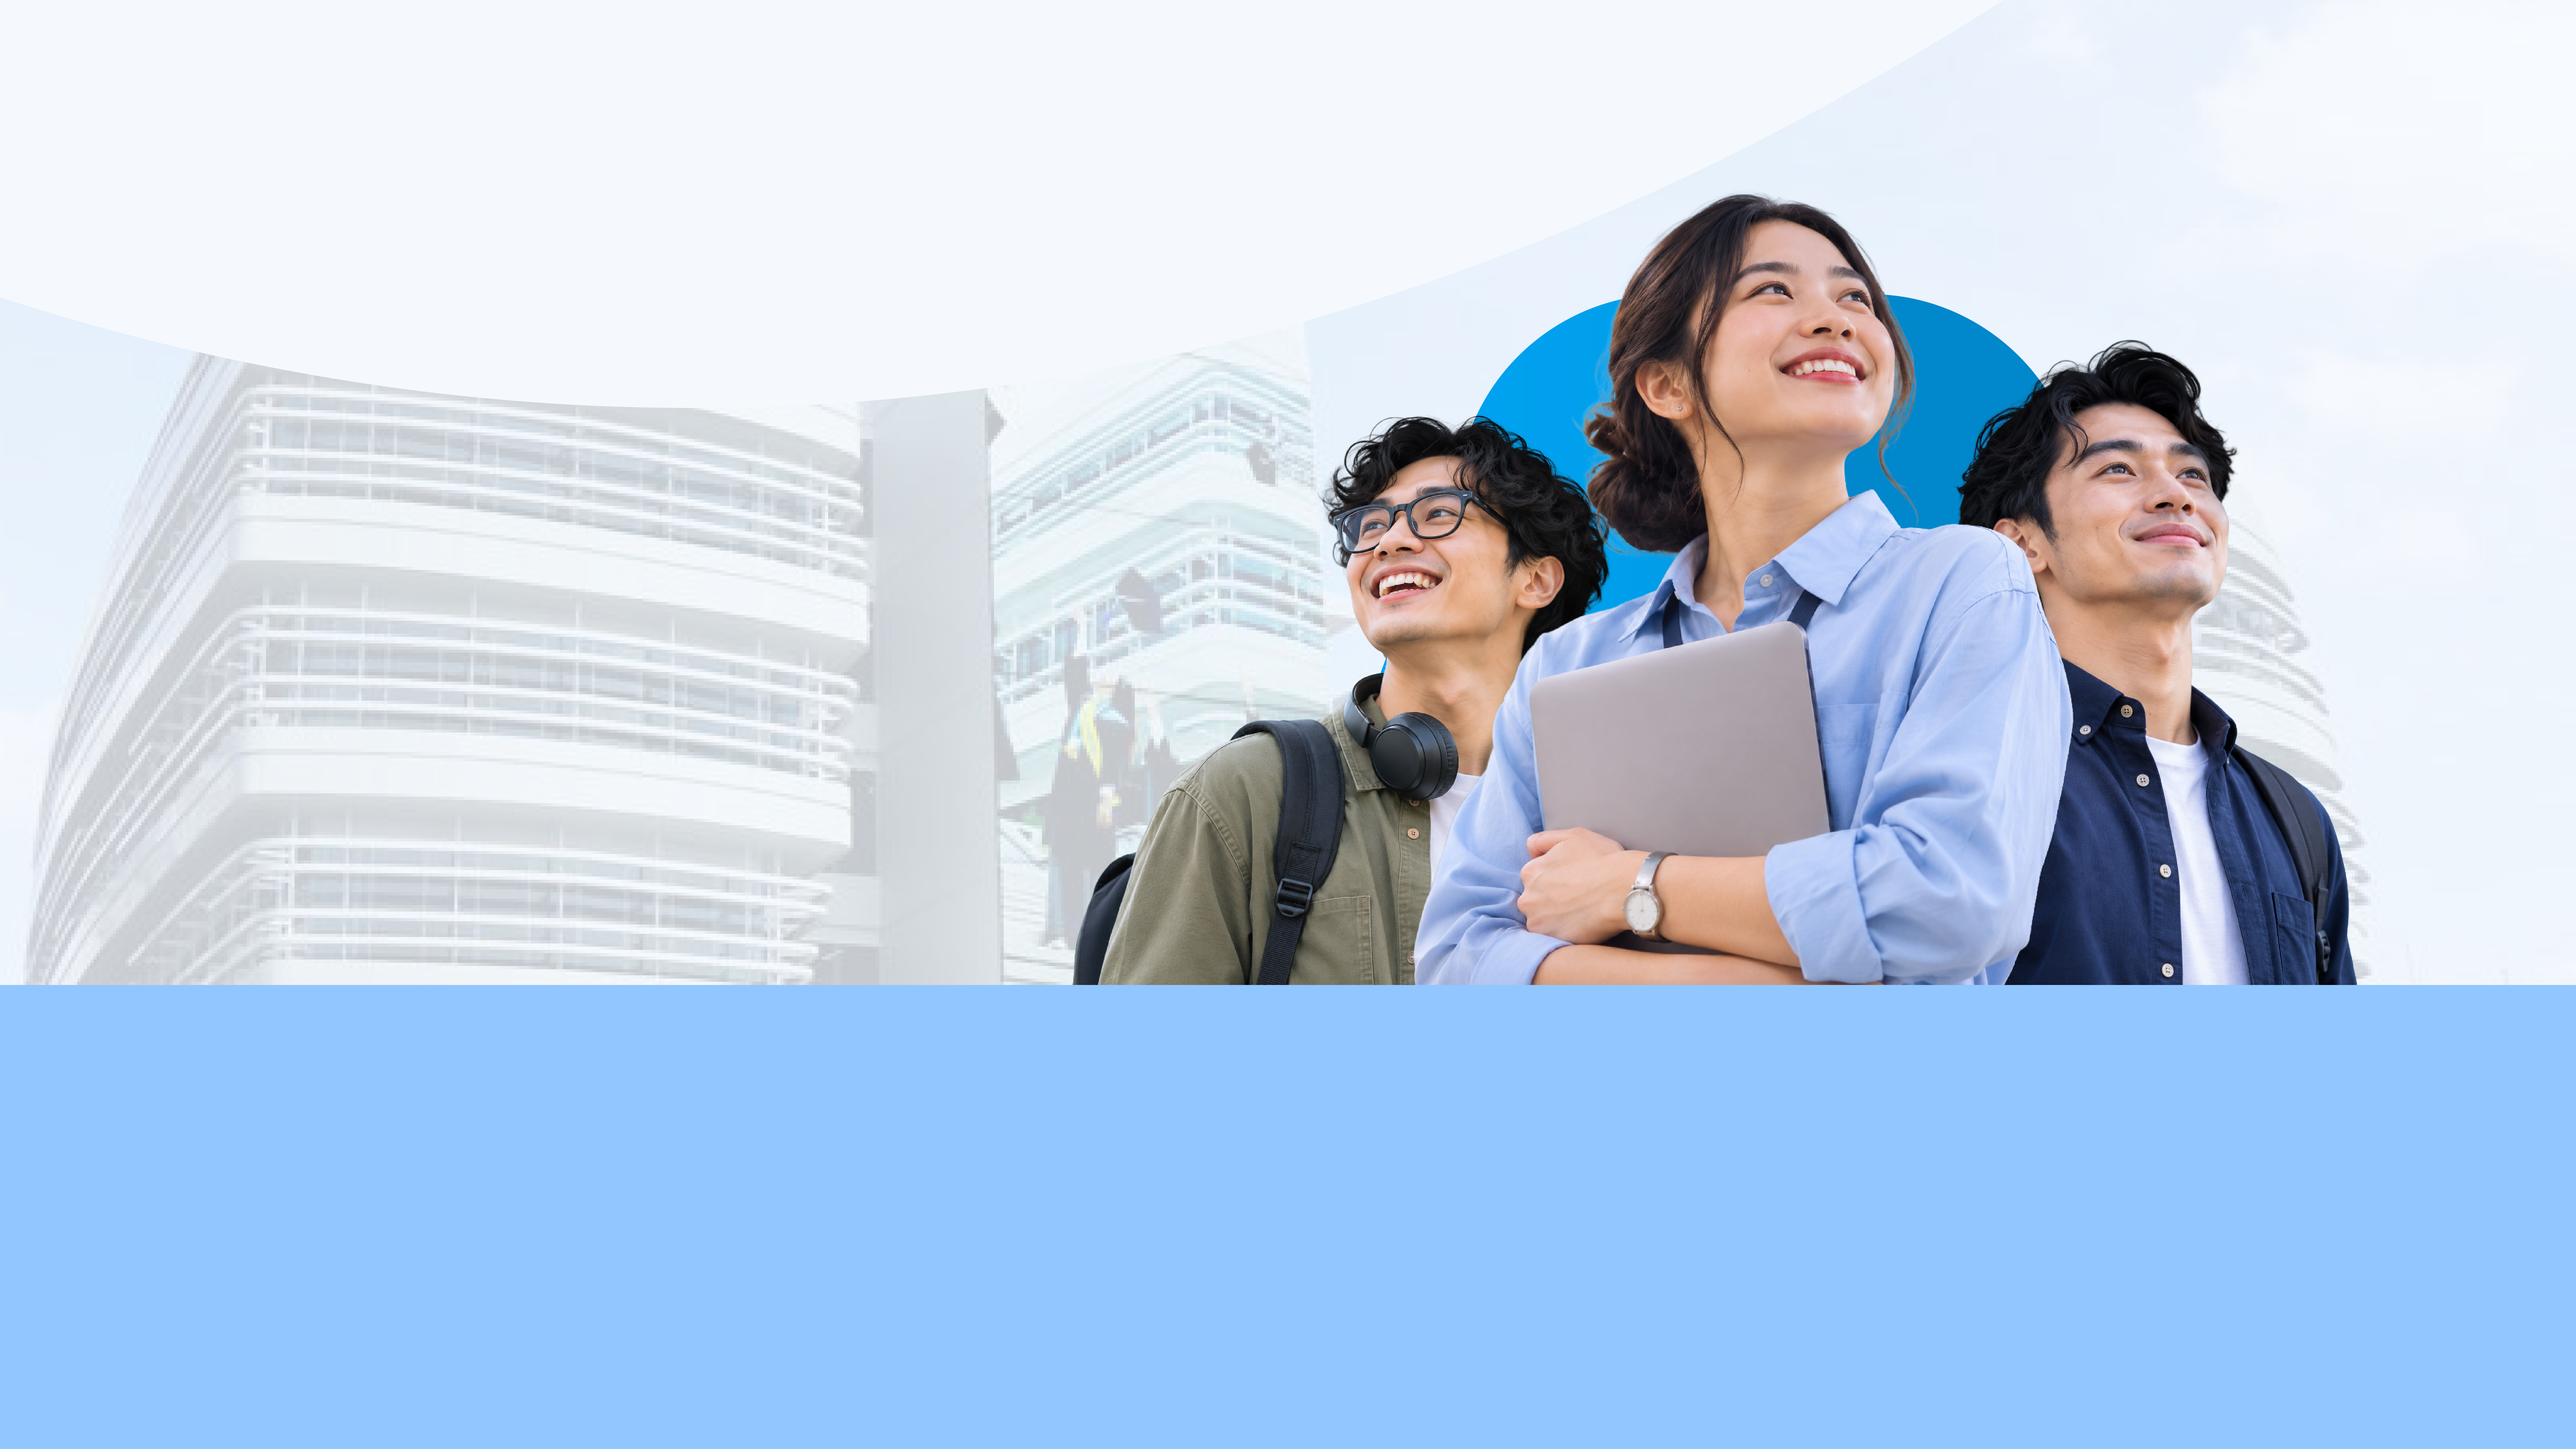
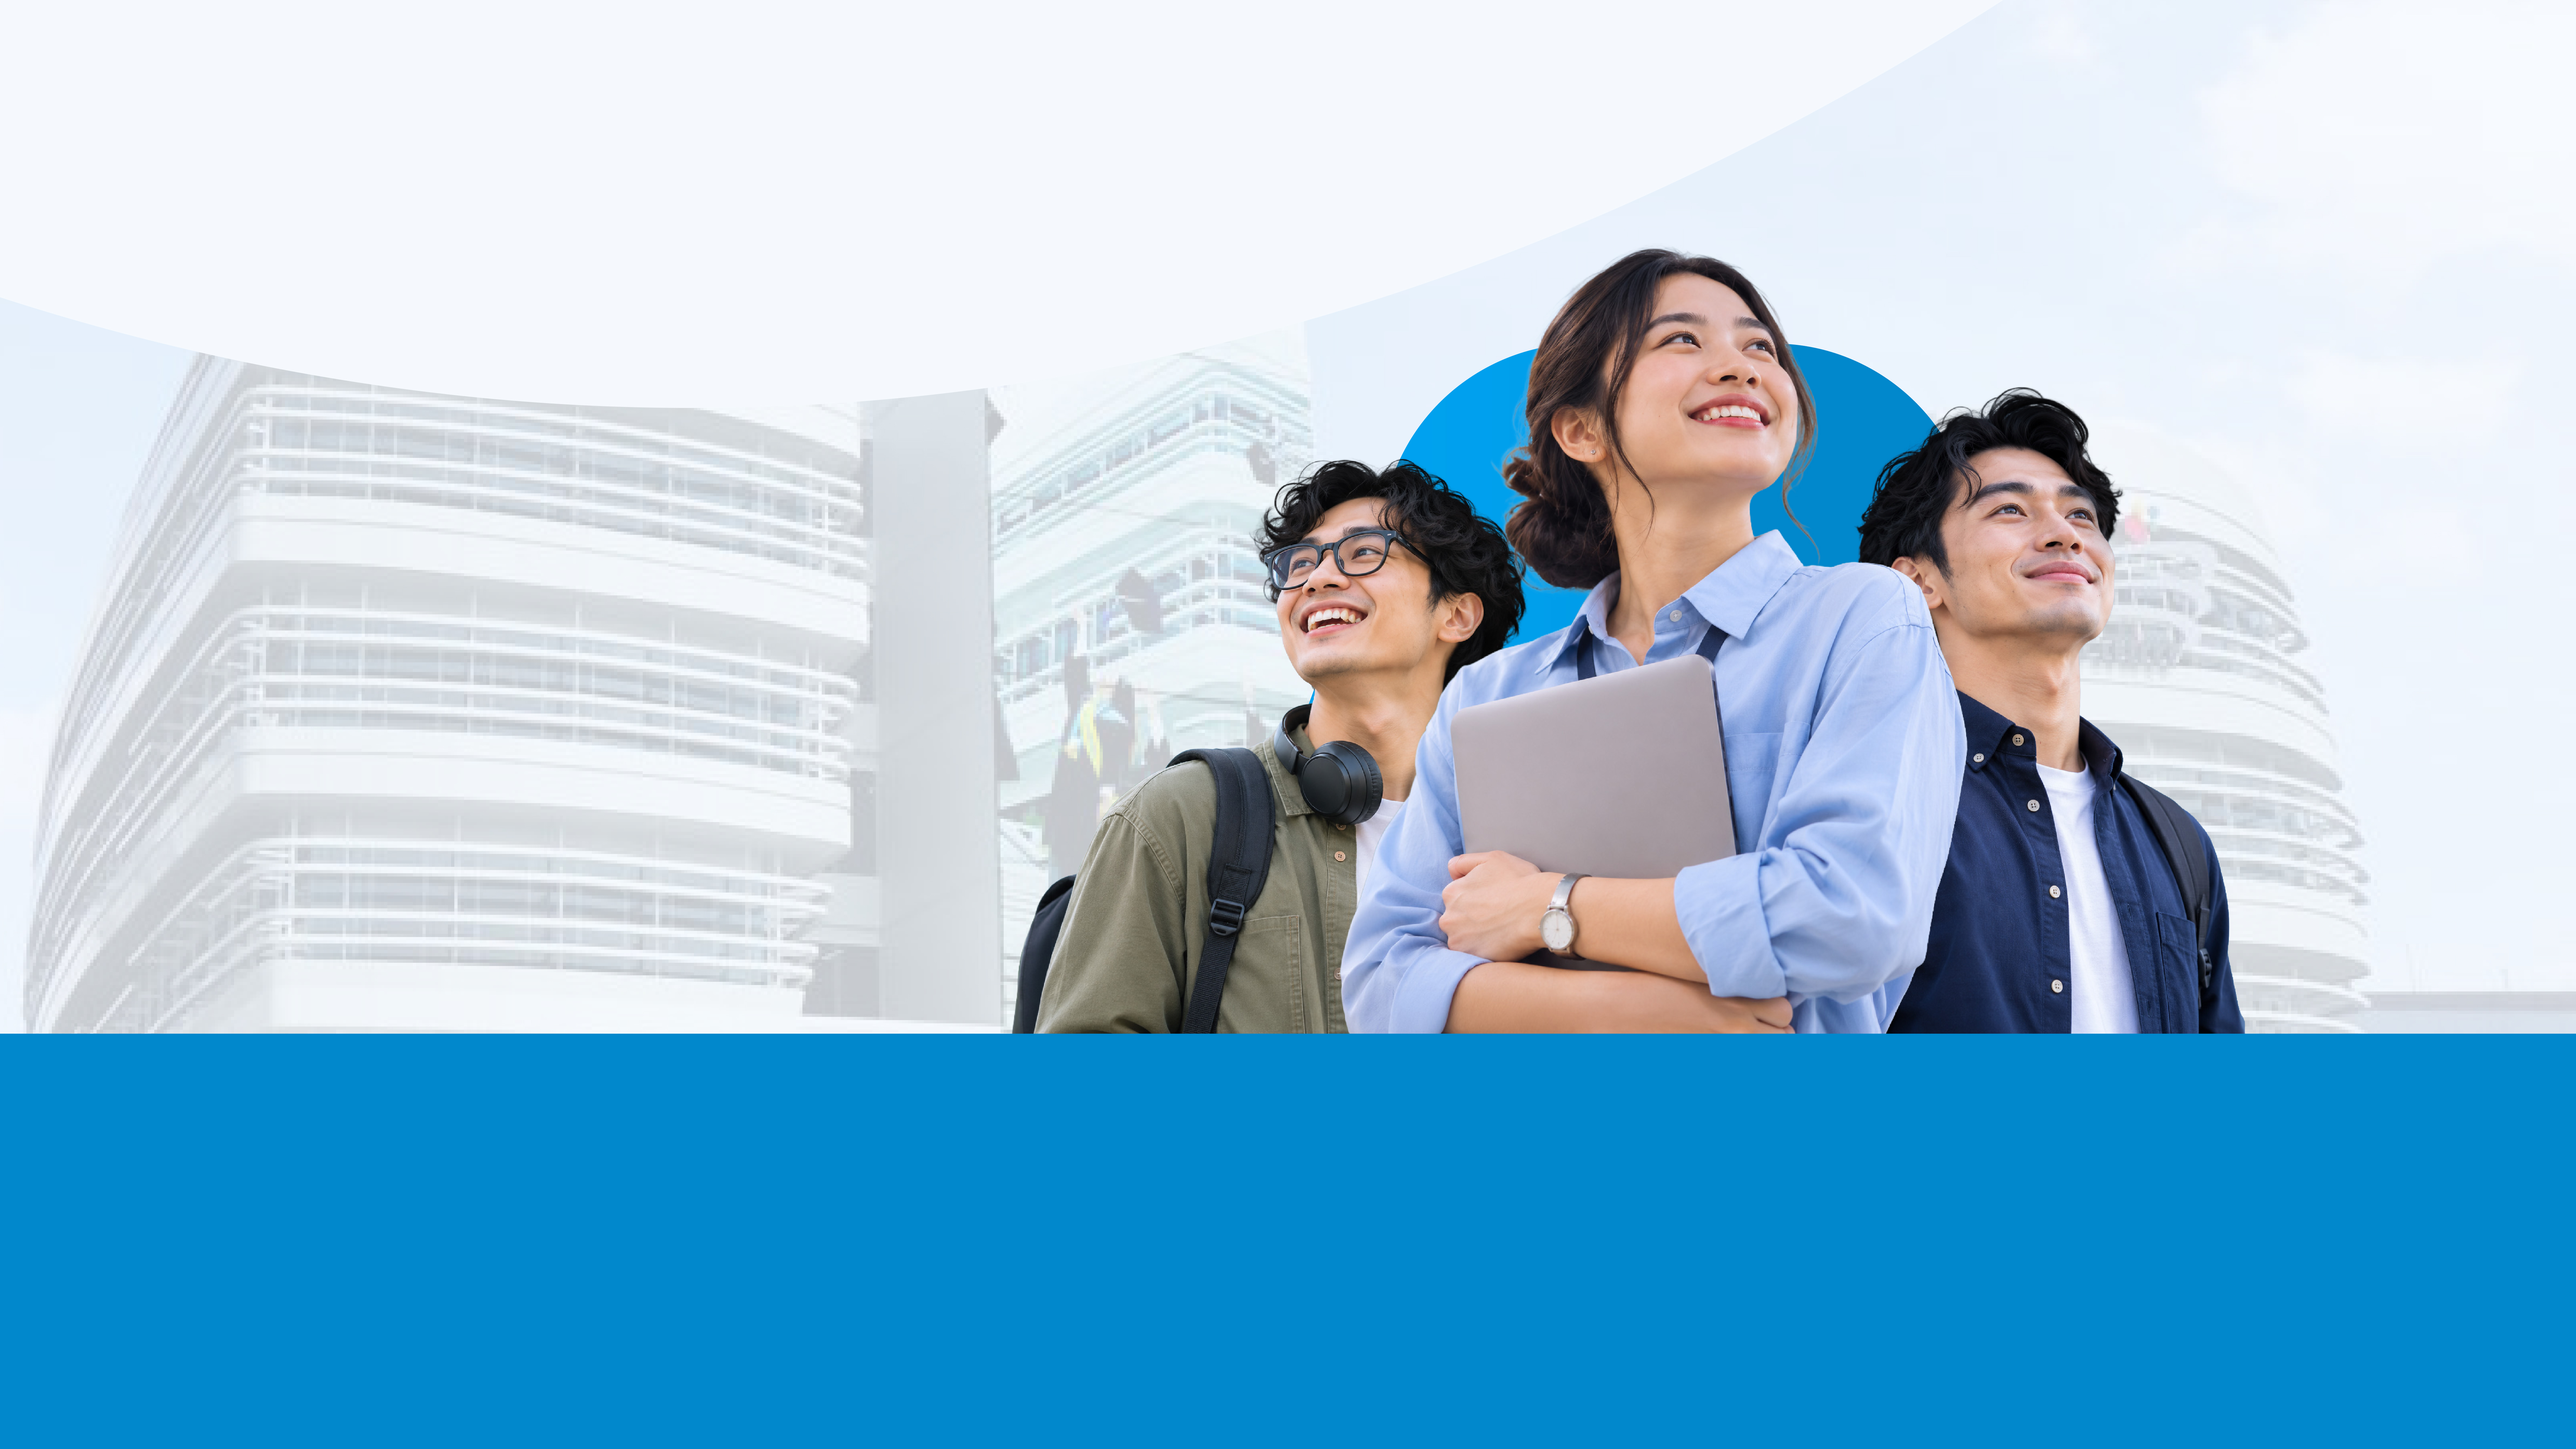
feat(hero): sync latest Landing Pge Hero-04 background with high-contrast white dock typography

diff --git a/src/app/page.tsx b/src/app/page.tsx
@@ -334,26 +334,26 @@ export default function HomePage() {
               
               {/* Feature 1: Jaringan Alumni */}
               <div className="flex items-center gap-3 px-2 py-1 sm:py-0">
-                <Users className="w-5 h-5 text-white shrink-0 drop-shadow-xs" />
-                <h4 className="text-xs sm:text-sm font-bold text-white leading-tight drop-shadow-xs">Jaringan Alumni</h4>
+                <Users className="w-5 h-5 text-white shrink-0 drop-shadow-[0_1px_2px_rgba(0,0,0,0.25)]" />
+                <h4 className="text-xs sm:text-sm font-bold text-white leading-tight drop-shadow-[0_1px_2px_rgba(0,0,0,0.25)]">Jaringan Alumni</h4>
               </div>
 
               {/* Feature 2: Peluang Karier */}
               <div className="flex items-center gap-3 px-2 sm:pl-6 py-1 sm:py-0">
-                <Handshake className="w-5 h-5 text-white shrink-0 drop-shadow-xs" />
-                <h4 className="text-xs sm:text-sm font-bold text-white leading-tight drop-shadow-xs">Peluang Karier</h4>
+                <Handshake className="w-5 h-5 text-white shrink-0 drop-shadow-[0_1px_2px_rgba(0,0,0,0.25)]" />
+                <h4 className="text-xs sm:text-sm font-bold text-white leading-tight drop-shadow-[0_1px_2px_rgba(0,0,0,0.25)]">Peluang Karier</h4>
               </div>
 
               {/* Feature 3: Kegiatan & Reuni */}
               <div className="flex items-center gap-3 px-2 sm:pl-6 py-1 sm:py-0">
-                <Calendar className="w-5 h-5 text-white shrink-0 drop-shadow-xs" />
-                <h4 className="text-xs sm:text-sm font-bold text-white leading-tight drop-shadow-xs">Kegiatan &amp; Reuni</h4>
+                <Calendar className="w-5 h-5 text-white shrink-0 drop-shadow-[0_1px_2px_rgba(0,0,0,0.25)]" />
+                <h4 className="text-xs sm:text-sm font-bold text-white leading-tight drop-shadow-[0_1px_2px_rgba(0,0,0,0.25)]">Kegiatan &amp; Reuni</h4>
               </div>
 
               {/* Feature 4: Berita & Cerita Alumni */}
               <div className="flex items-center gap-3 px-2 sm:pl-6 py-1 sm:py-0">
-                <BookOpen className="w-5 h-5 text-white shrink-0 drop-shadow-xs" />
-                <h4 className="text-xs sm:text-sm font-bold text-white leading-tight drop-shadow-xs">Berita &amp; Cerita Alumni</h4>
+                <BookOpen className="w-5 h-5 text-white shrink-0 drop-shadow-[0_1px_2px_rgba(0,0,0,0.25)]" />
+                <h4 className="text-xs sm:text-sm font-bold text-white leading-tight drop-shadow-[0_1px_2px_rgba(0,0,0,0.25)]">Berita &amp; Cerita Alumni</h4>
               </div>
 
             </div>
